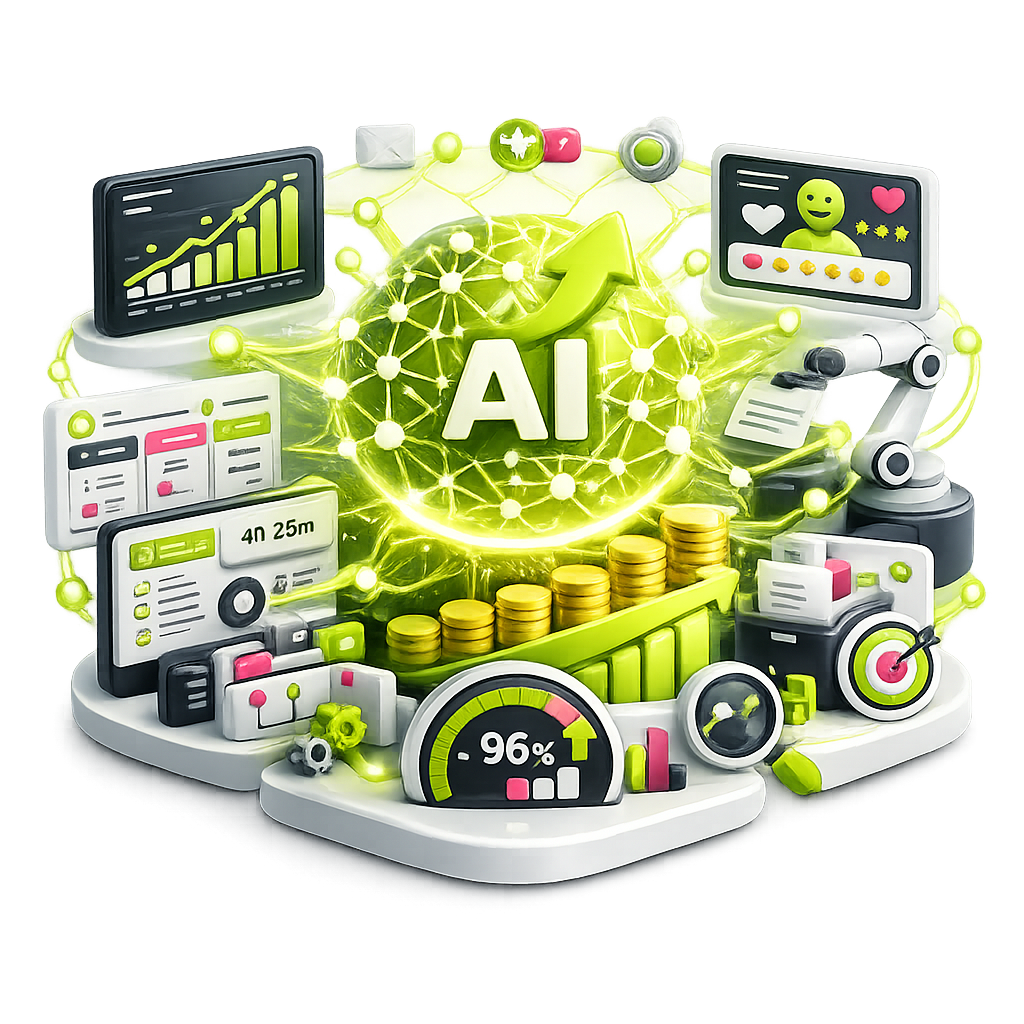
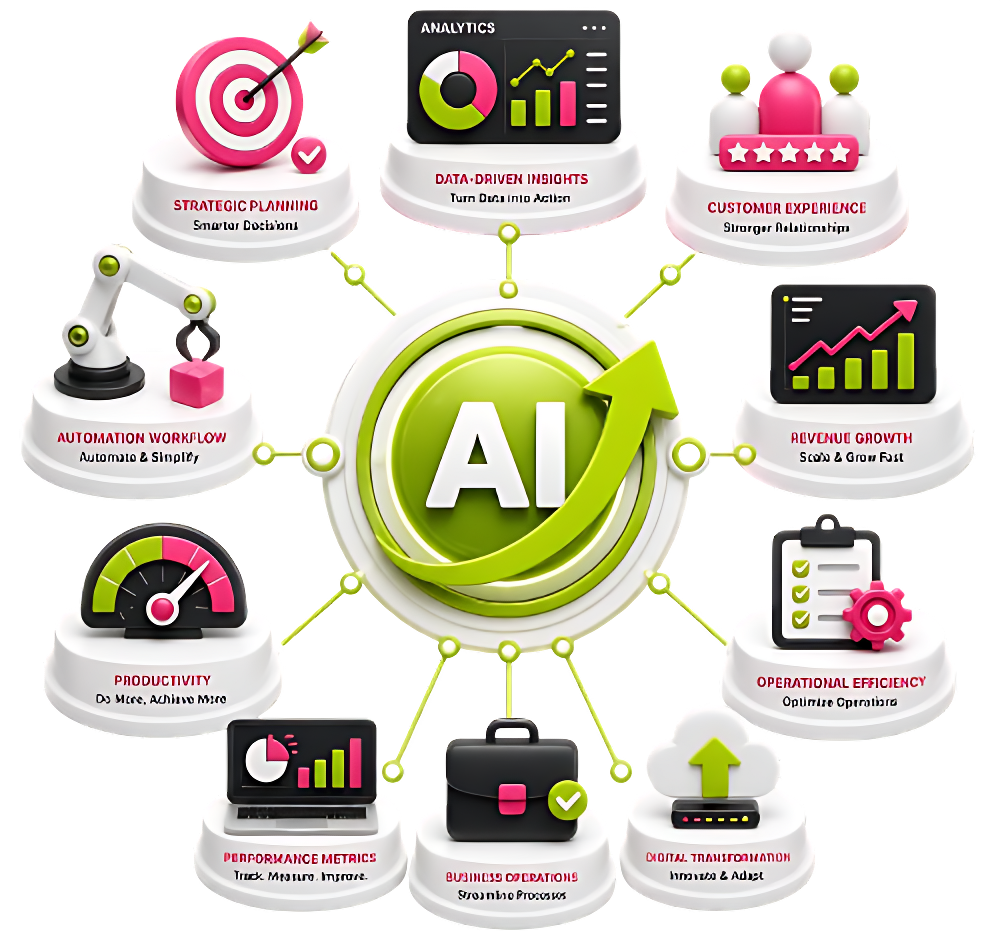
update file

diff --git a/src/components/overview.tsx b/src/components/overview.tsx
@@ -9,22 +9,22 @@ const Overview = () => {
           {/* Left Content */}
           <div className="space-y-8">
             <div className="space-y-6">
-              <h2 className="text-[clamp(0.8125rem,2.4vw,1.875rem)] font-bold text-[#050729] leading-tight tracking-tight">
+              <h2 className="text-[clamp(0.8125rem,2.4vw,1.875rem)] font-bold text-[#050729] leading-tight tracking-tight whitespace-nowrap">
                 Drive Unstoppable Business Growth with AI
               </h2>
 
               <div className="space-y-4 text-gray-600 leading-relaxed text-xs sm:text-sm">
                 <p>
-                  Maximize your business potential with cutting-edge AI solutions from <span className="font-bold text-[#050729]">Velnix Solutions</span>. We focus on real-world impact, designing intelligent systems that don’t just work — they deliver measurable results.
+                  We help businesses grow, operate more efficiently, and deliver better customer experiences through smart, results-driven solutions. Our focus is not on technology for its own sake - it&apos;s on creating real value that helps your business succeed.
                 </p>
                 <p>
-                  Leveraging machine learning, deep learning, and advanced AI applications in NLP, computer vision, predictive analytics, generative AI, and AI chatbots, we build scalable solutions tailored to your unique business needs.
+                  From streamlining daily operations and reducing manual work to improving decision-making and increasing productivity, we develop solutions tailored to your unique goals and challenges.
                 </p>
                 <p>
-                  Our approach is simple: solve real problems, optimize operations, and create lasting value. Whether automating workflows, enhancing decision-making, or extracting powerful insights from your data — we help your business move faster and smarter.
+                  Every business is different, which is why we take the time to understand your needs and create strategies that support sustainable growth and long-term success.
                 </p>
                 <p>
-                  Partner with <span className="font-bold text-[#050729]">Velnix Solutions</span> to transform your ideas into high-performance AI systems that drive efficiency, growth, and a competitive advantage.
+                  Partner with <span className="font-bold text-[#050729]">Velnix Solutions</span> to improve efficiency, unlock new opportunities, and build a stronger, more competitive business for the future.
                 </p>
               </div>
             </div>

diff --git a/src/components/Approach.tsx b/src/components/Approach.tsx
@@ -8,7 +8,7 @@ const awards = [
   { path: '/image/certificate-image/DEEP-LEARING.png', alt: 'Deep Learning Certificate' },
   { path: '/image/certificate-image/aws.png', alt: 'AWS Certificate' },
   { path: '/image/certificate-image/machine learing AI.png', alt: 'Machine Learning AI Certificate' },
-  { path: '/image/certificate-image/Business Growth with AI.png', alt: 'Business Growth with AI Certificate' },
+  { path: '/image/certificate-image/AI develpments.png', alt: 'AI develpments' },
 ];
 
 const toSrc = (path: string) => encodeURI(path);

diff --git a/src/pages-Industries/ClinicsSmallHospitals.tsx b/src/pages-Industries/ClinicsSmallHospitals.tsx
@@ -206,7 +206,7 @@ const ClinicsSmallHospitals: React.FC = () => {
   ];
 
   return (
-    <div className="min-h-screen bg-gradient-to-br from-gray-50 via-blue-50 to-indigo-50 flex flex-col">
+    <div className="min-h-screen bg-white flex flex-col">
       <Navbar />
       <IndustryHero
         title="Clinics & Small Hospitals"

diff --git a/src/pages-Industries/DrugDiscovery.tsx b/src/pages-Industries/DrugDiscovery.tsx
@@ -206,7 +206,7 @@ const DrugDiscovery: React.FC = () => {
   ];
 
   return (
-    <div className="min-h-screen bg-gradient-to-br from-gray-50 via-blue-50 to-indigo-50 flex flex-col">
+    <div className="min-h-screen bg-white flex flex-col">
       <Navbar />
       <IndustryHero
         title="Drug Discovery"

diff --git a/src/pages-Industries/ElectronicHealthRecords.tsx b/src/pages-Industries/ElectronicHealthRecords.tsx
@@ -206,7 +206,7 @@ const ElectronicHealthRecords: React.FC = () => {
   ];
 
   return (
-    <div className="min-h-screen bg-gradient-to-br from-gray-50 via-blue-50 to-indigo-50 flex flex-col">
+    <div className="min-h-screen bg-white flex flex-col">
       <Navbar />
       <IndustryHero
         title="Electronic Health Records"

diff --git a/src/pages-Industries/HealthDataAnalytics.tsx b/src/pages-Industries/HealthDataAnalytics.tsx
@@ -206,7 +206,7 @@ const HealthDataAnalytics: React.FC = () => {
   ];
 
   return (
-    <div className="min-h-screen bg-gradient-to-br from-gray-50 via-blue-50 to-indigo-50 flex flex-col">
+    <div className="min-h-screen bg-white flex flex-col">
       <Navbar />
       <IndustryHero
         title="Healthcare Data Analytics"

diff --git a/src/pages-Industries/HospitalOperations.tsx b/src/pages-Industries/HospitalOperations.tsx
@@ -206,7 +206,7 @@ const HospitalOperations: React.FC = () => {
   ];
 
   return (
-    <div className="min-h-screen bg-gradient-to-br from-gray-50 via-blue-50 to-indigo-50 flex flex-col">
+    <div className="min-h-screen bg-white flex flex-col">
       <Navbar />
       <IndustryHero
         title="Hospital Operations Management"

diff --git a/src/pages-Industries/MedicalImaging.tsx b/src/pages-Industries/MedicalImaging.tsx
@@ -206,7 +206,7 @@ const MedicalImaging: React.FC = () => {
   ];
 
   return (
-    <div className="min-h-screen bg-gradient-to-br from-gray-50 via-blue-50 to-indigo-50 flex flex-col">
+    <div className="min-h-screen bg-white flex flex-col">
       <Navbar />
       <IndustryHero
         title="Medical Imaging (Radiology)"

diff --git a/src/pages-Industries/MentalHealthTech.tsx b/src/pages-Industries/MentalHealthTech.tsx
@@ -206,7 +206,7 @@ const MentalHealthTech: React.FC = () => {
   ];
 
   return (
-    <div className="min-h-screen bg-gradient-to-br from-gray-50 via-blue-50 to-indigo-50 flex flex-col">
+    <div className="min-h-screen bg-white flex flex-col">
       <Navbar />
       <IndustryHero
         title="Mental Health Tech"

diff --git a/src/pages-Industries/Telemedicine.tsx b/src/pages-Industries/Telemedicine.tsx
@@ -206,7 +206,7 @@ const Telemedicine: React.FC = () => {
   ];
 
   return (
-    <div className="min-h-screen bg-gradient-to-br from-gray-50 via-blue-50 to-indigo-50 flex flex-col">
+    <div className="min-h-screen bg-white flex flex-col">
       <Navbar />
       <IndustryHero
         title="Telemedicine"